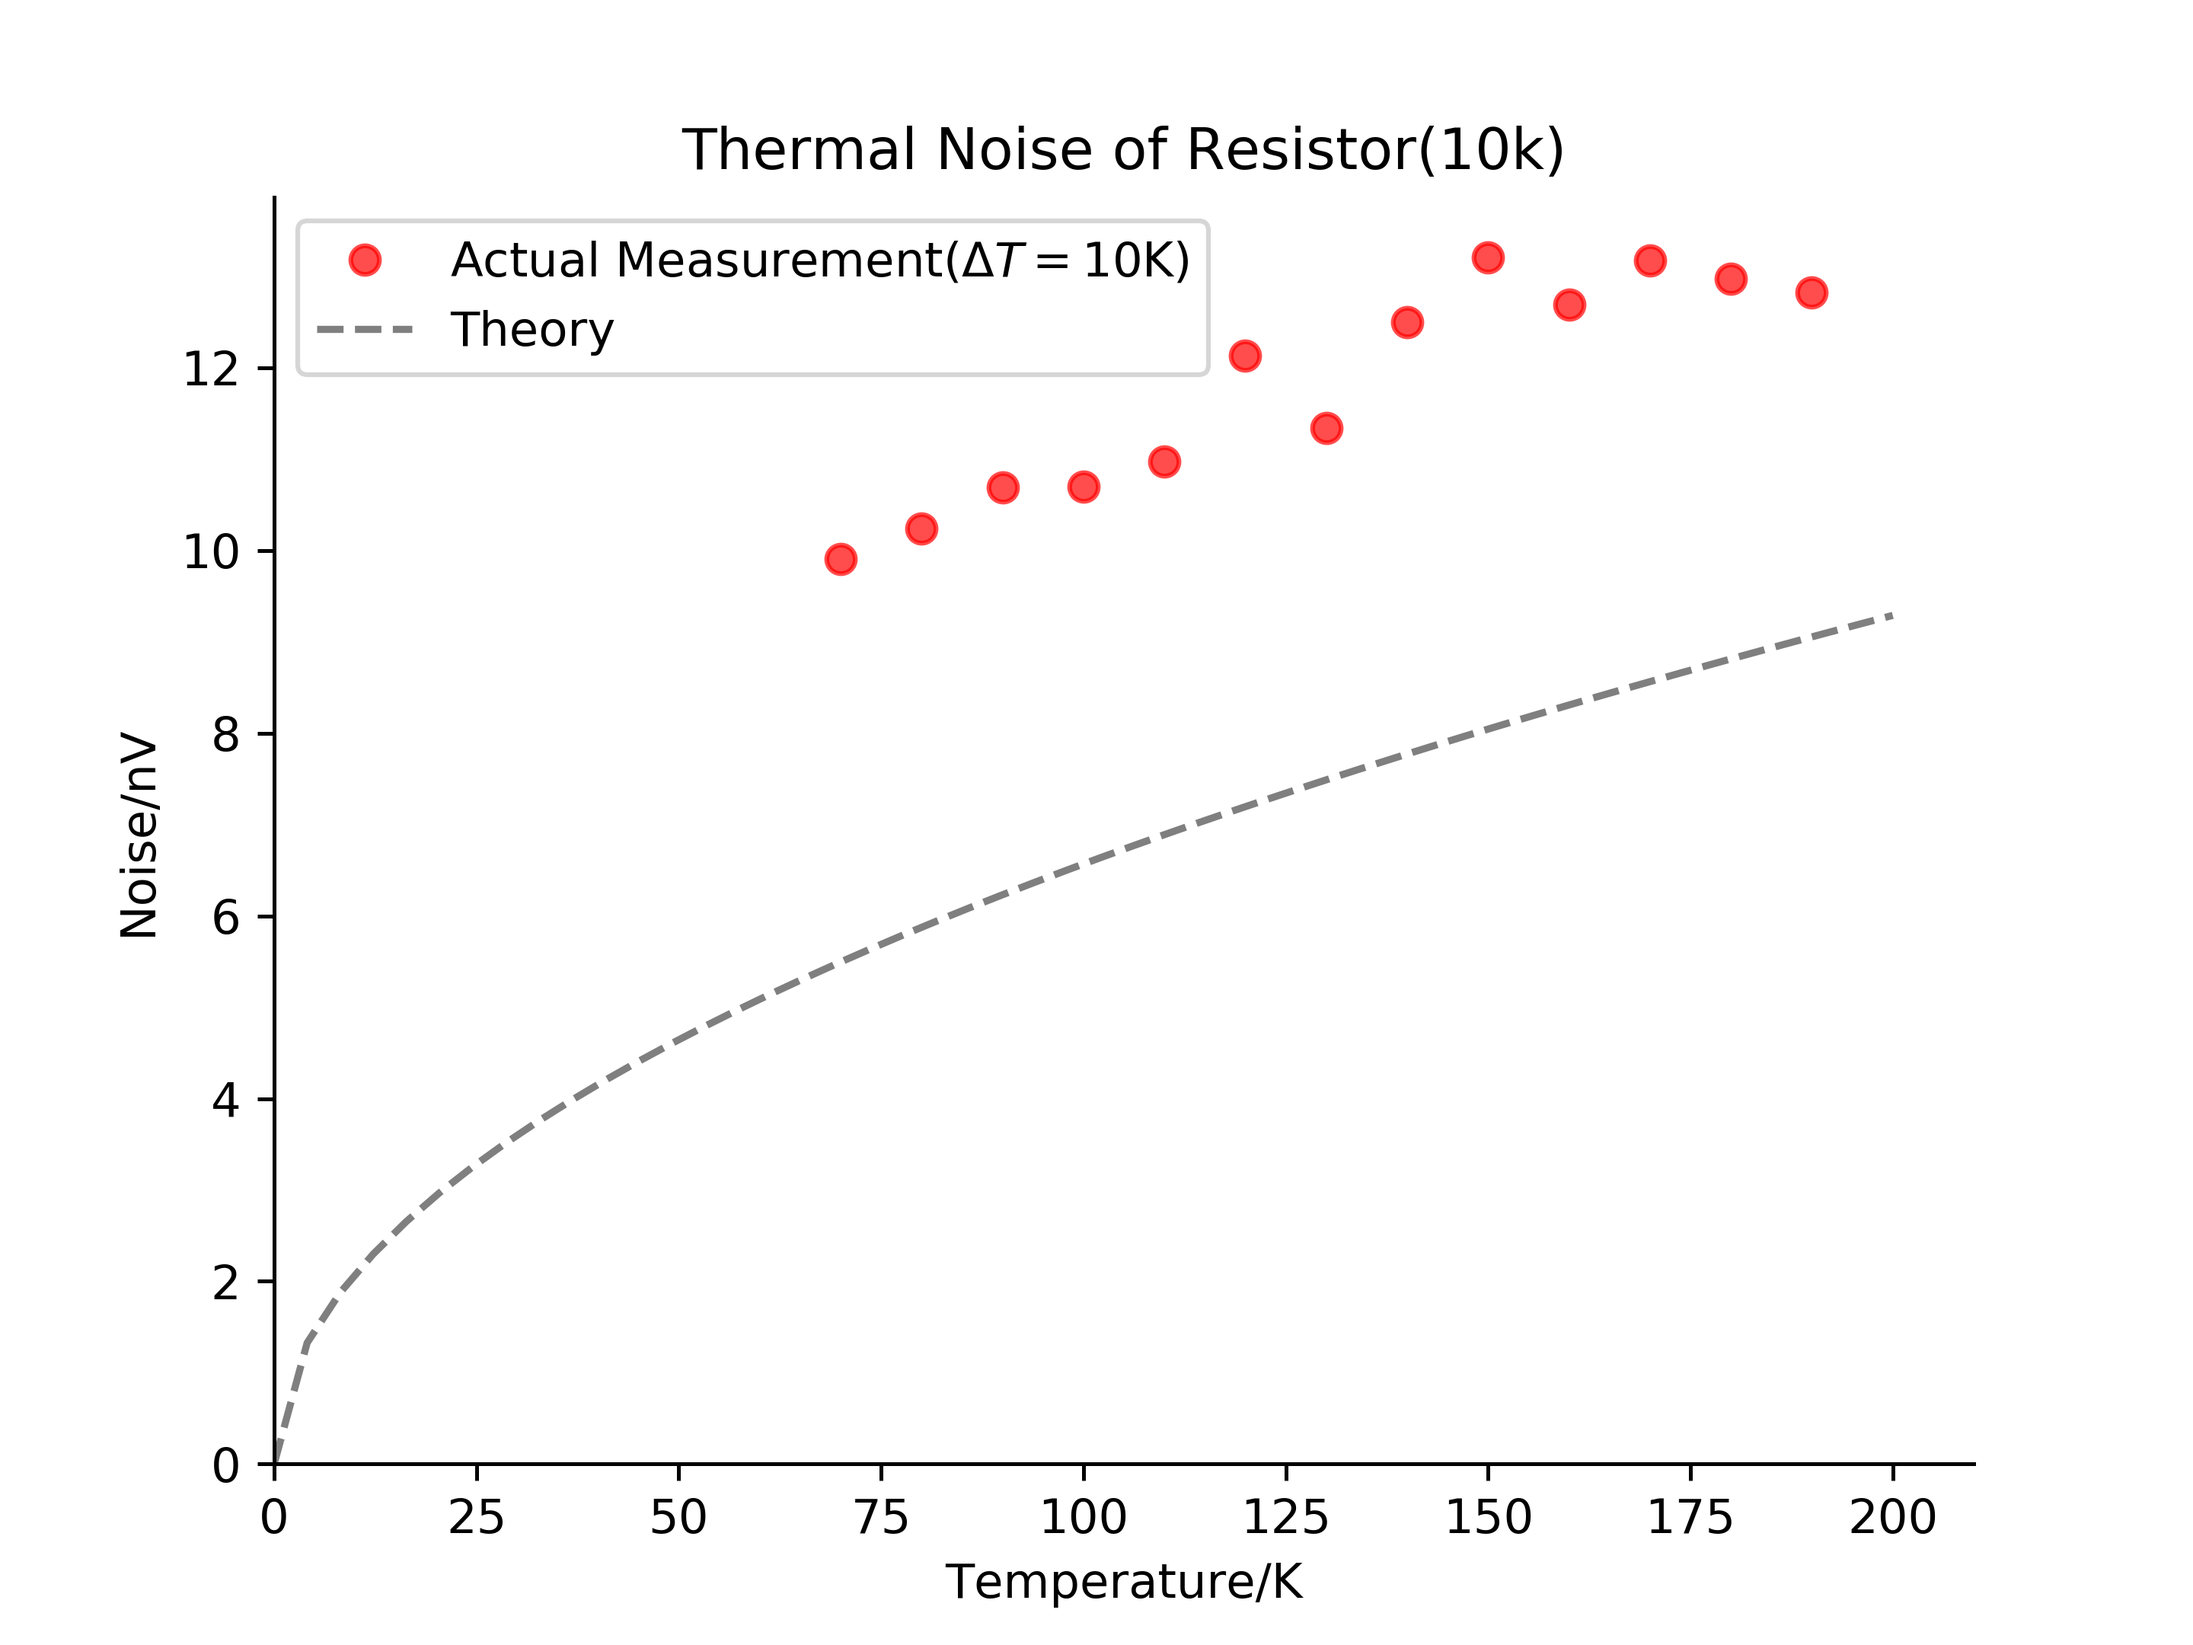
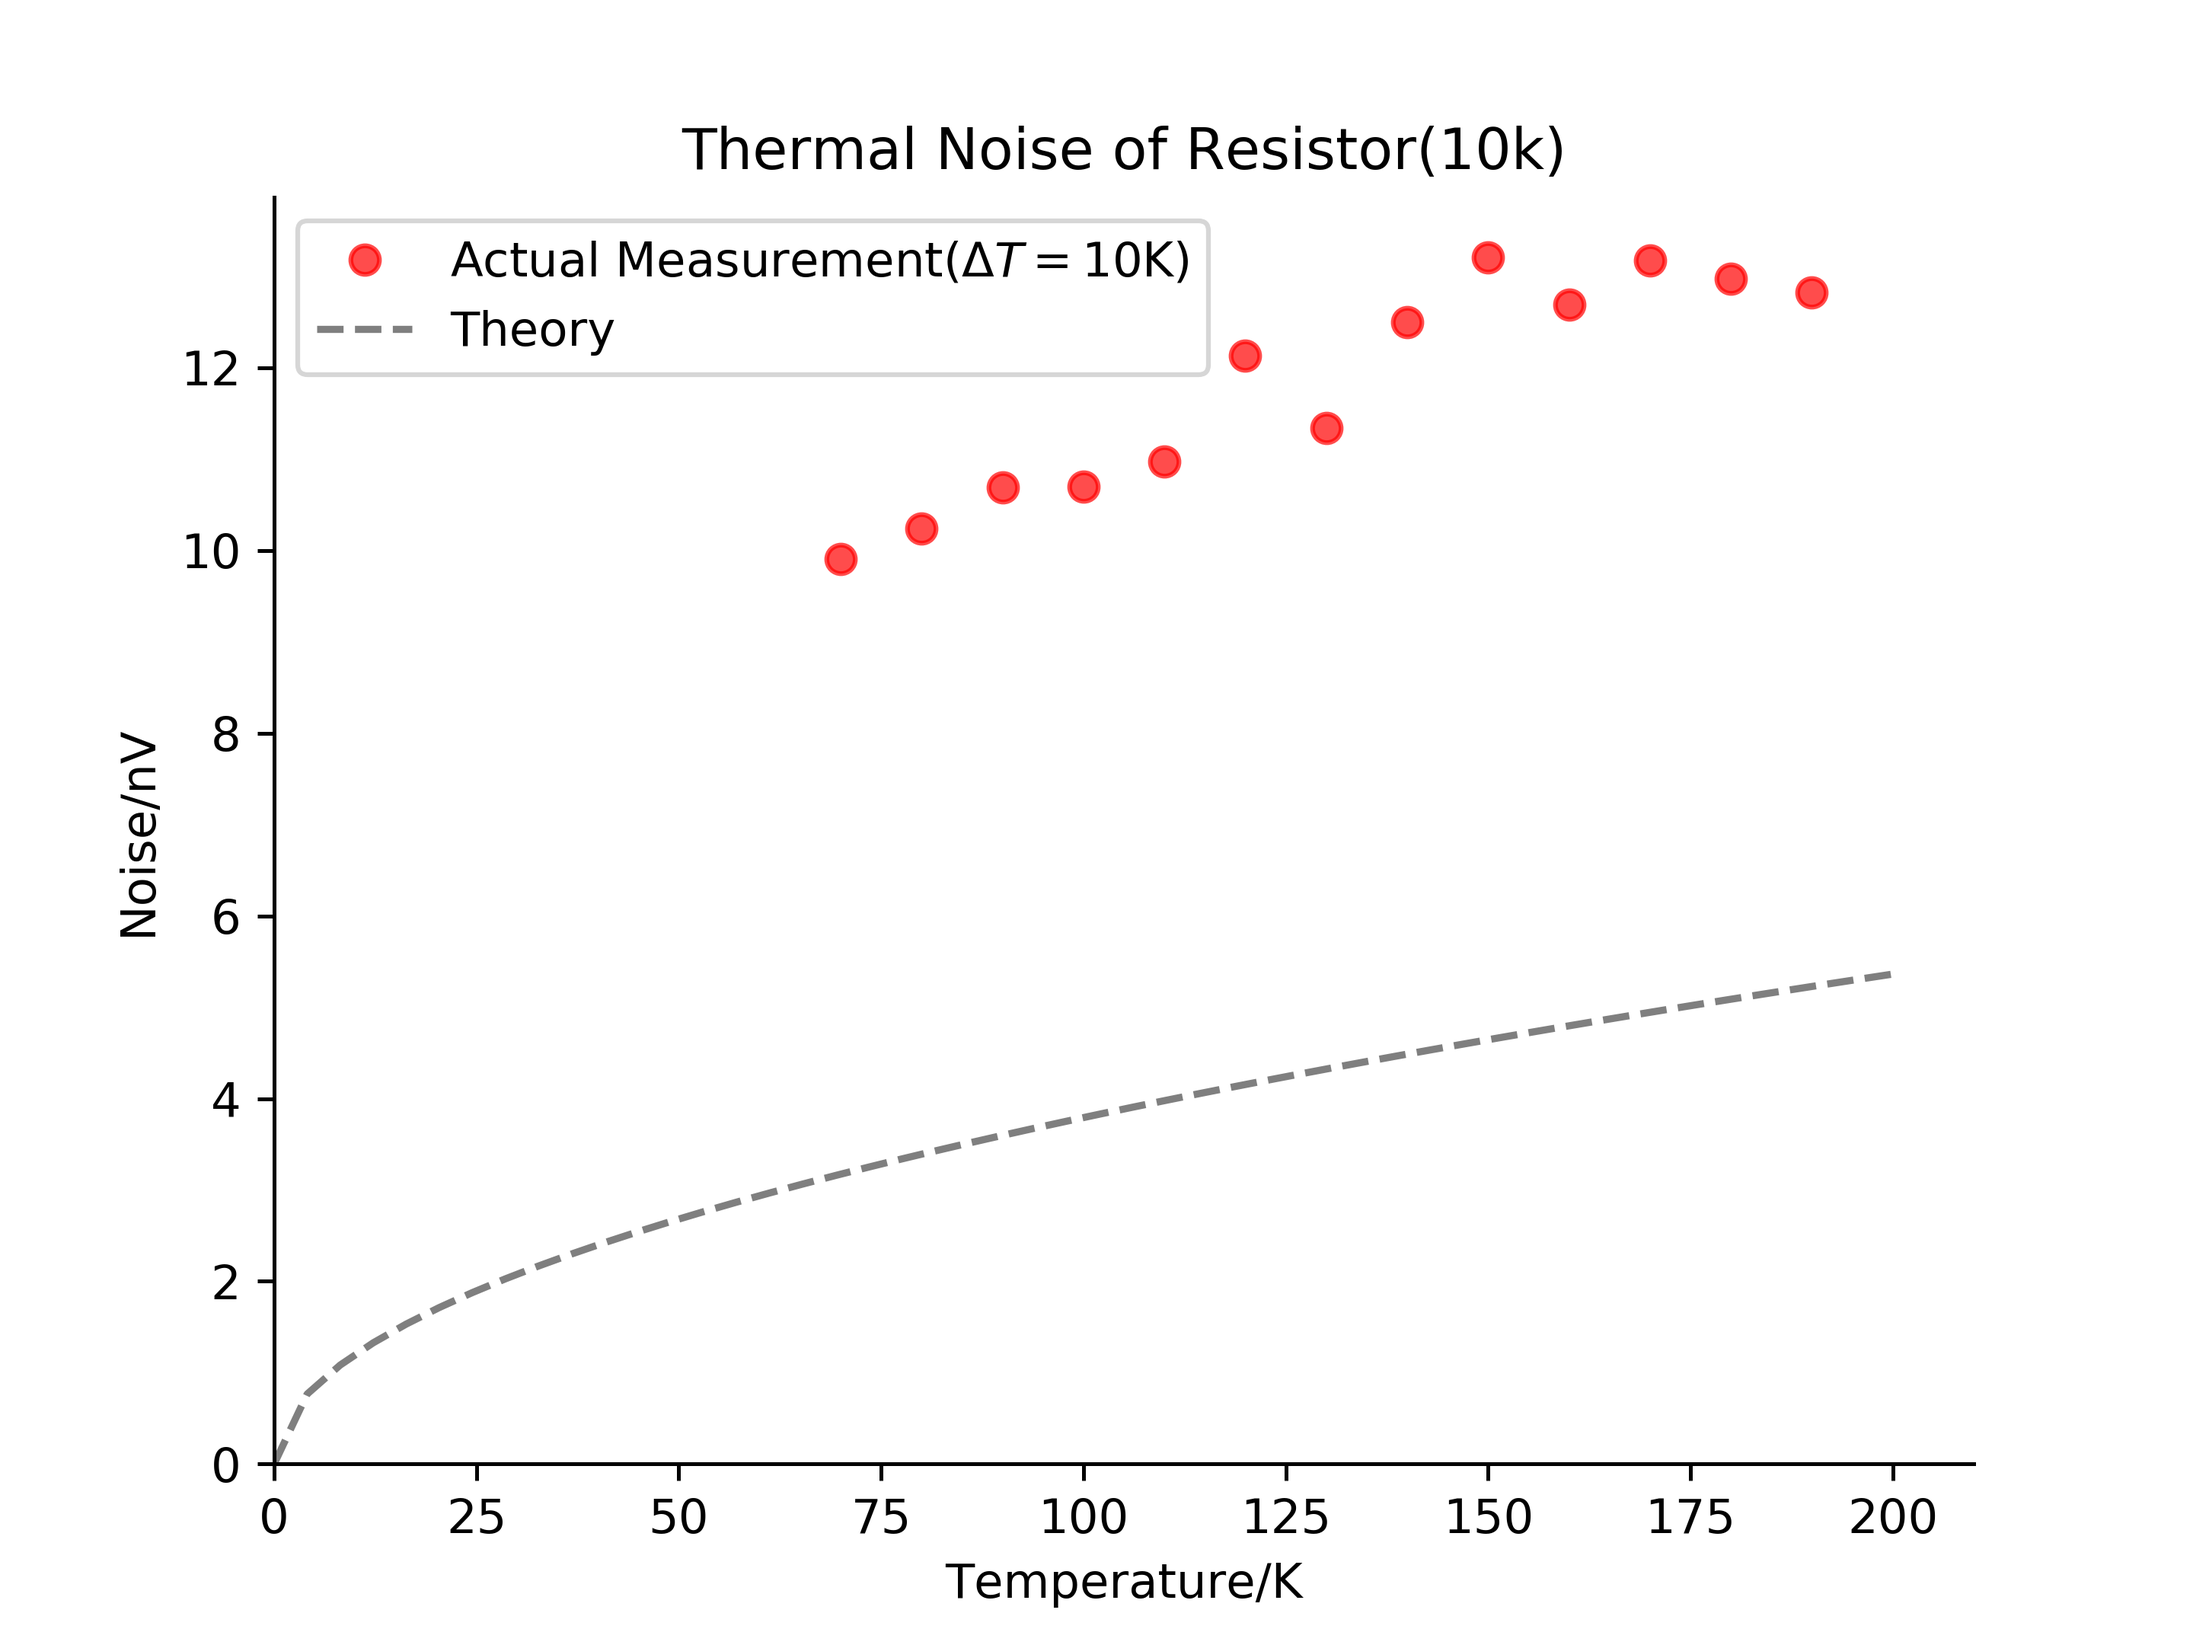
Fix ENBW value issue

diff --git a/script/E1_thermal_noise.py b/script/E1_thermal_noise.py
@@ -10,14 +10,14 @@ fname = r"../data/E1_thermal_noise_increasing.xls"
 col_name = ['R', 'temp', 'B', 'X', 'Y', 'theta', 'freq', 'noise']
 data = pd.read_csv(fname, delimiter='\t', names=col_name, skiprows=[0, 1], engine="python")
 
-dT = 20
+dT = 10
 bins = np.arange(65, 200, dT)
 noise_rms = np.zeros(len(bins)-1, dtype="float")
 temps = np.arange(65 + dT/2, 200, dT)
 inds = np.digitize(data.temp, bins=bins)
 
 foo = np.linspace(0, 200)
-ana = (4 * Boltzmann * foo * 10e3 * 25 / 32)**0.5 * 10**9
+ana = (4 * Boltzmann * foo * 10e3 * 5/ (64 * 0.3))**0.5 * 10**9
 
 for i in range(1, bins.size):
     noise_rms[i-1] = np.sum(data.noise[inds == i]**2)
@@ -25,9 +25,9 @@ for i in range(1, bins.size):
 noise_rms = (noise_rms / np.bincount(inds)[1:-1])**0.5 * 10**9
 
 fig, ax = plt.subplots()
-# ax.plot(temps[:len(noise_rms)], noise_rms, "ro", alpha=.7, markeredgecolor="red", label=f"Actual Measurement($\Delta T=${dT}K)")
-# ax.plot(foo, ana, "k--", alpha=.5, label="Theory")
-ax.plot(data.temp, data.noise * 1e9, 'ro', alpha=.3, label='Raw Data')
+ax.plot(temps[:len(noise_rms)], noise_rms, "ro", alpha=.7, markeredgecolor="red", label=f"Actual Measurement($\Delta T=${dT}K)")
+ax.plot(foo, ana + 7, "k--", alpha=.5, label="Theory")
+# ax.plot(data.temp, data.noise * 1e9, 'ro', alpha=.3, label='Raw Data')
 ax.set_xlabel("Temperature/K")
 ax.set_ylabel("Noise/nV")
 ax.set_title("Thermal Noise of Resistor(10k)")
@@ -39,5 +39,5 @@ ax.set_xlim(0,)
 ax.set_ylim(0,)
 ax.legend(loc="best")
 # plt.savefig(f"../figure/E1_thermal_noise_bin{dT}.png", dpi=450, transparent=True)
-plt.savefig(f"../figure/E1_thermal_noise_raw.png", dpi=450, transparent=True)
-# plt.show()
+# plt.savefig(f"../figure/E1_thermal_noise_raw.png", dpi=450, transparent=True)
+plt.show()
